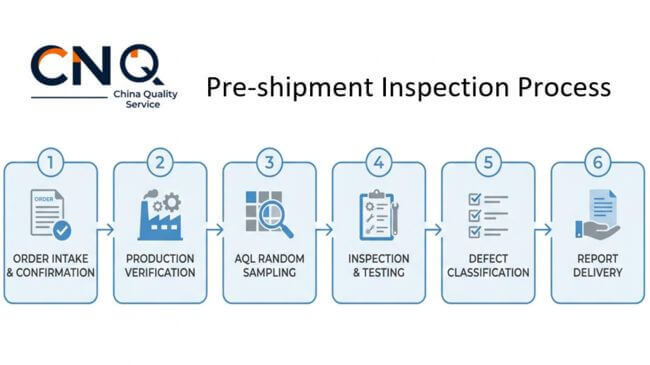
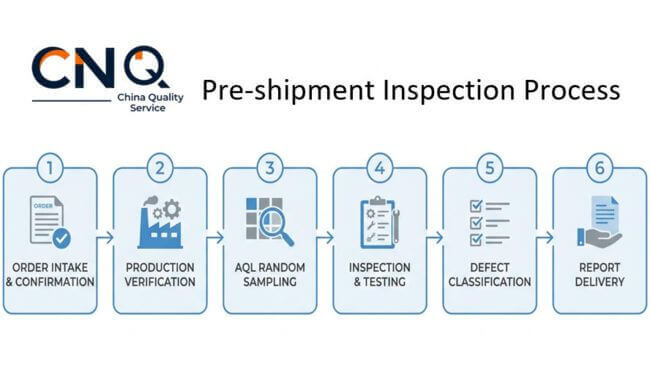
revise transparent to start from

Changed region(s): [[0.0, 0.3918, 1.0, 0.874], [0.0308, 0.1205, 0.2769, 0.3315], [0.3077, 0.211, 0.9538, 0.3014]]

diff --git a/about.html b/about.html
@@ -145,7 +145,7 @@
                 <div class="figure-caption" data-zh="2009年7月11日，东莞某电子厂食堂。两位资深工程师的一次偶遇，诞生了厦门亚商（CNQ）。">July 11, 2009. A chance lunch - 2 engineers formed CNQ</div>
               </div>
             </div>
-            <p><span data-zh="自成立以来，厦门亚商技术检验检测有限公司始终秉持独立、客观和毫不妥协的专业精神这一核心原则。我们作为客户在工厂现场的眼睛，致力于降低供应链风险，确保每一批货物严格符合国际标准。">Since our founding, CNQ has upheld the core principles of independence, objectivity, and uncompromising professionalism to be a boots-on-the-ground third-party inspection company. We serve as our clients' factory floor partner— with inspection networks across all major manufacturing hubs in China and Asia, mitigating supply chain risks and ensuring every shipment complies with global standards.</span></p>
+            <p><span data-zh="自成立以来，厦门亚商技术检验检测有限公司始终秉持独立、客观和毫不妥协的专业精神这一核心原则。我们作为客户在工厂现场的眼睛，致力于降低供应链风险，确保每一批货物严格符合国际标准。">Since our founding, CNQ has upheld the core principles of independence, objectivity, and uncompromising professionalism to be a boots-on-the-ground third-party inspection company. We serve as our clients' hands-on quality control partner— with inspection networks across all major manufacturing hubs in China and Asia, mitigating supply chain risks and ensuring every shipment complies with global standards.</span></p>
           <p data-zh="我们在中国各地直接开展产品检验工作，依托扎实的一线工厂实操经验提供支撑。我们的检验绝非走流程、走过场，而是核查产品结构与功能是否符合规范，深挖生产背后的工艺逻辑，因此能够发现普通检验人员容易遗漏的各类问题。">We conduct product inspections directly throughout China, backed by deep, on-the-ground manufacturing knowledge. We don’t just check boxes; we verify structural and functional compliance to understand the “how” behind the production, allowing us to spot issues standard inspectors miss.</p>
             <p data-zh="我们服务的行业涵盖电子电器、纺织服装、家居用品、玩具礼品、机械设备、食品接触材料等多个领域，客户遍及欧洲、北美、中东、东南亚等50多个国家和地区。">Our services cover electronics, textiles, home products, toys &amp; gifts, machinery, food contact materials and more, with clients across 50+ countries and regions including Europe, North America, Middle East and Southeast Asia.</p>
             <p data-zh="我们坚信透明化是最优的品控手段。依托 17 年实地检验专业经验，我们不仅提供落地实操的质量管控服务，还会整理并分享真实生产中出现的各类缺陷案例分析，帮您规避各类潜在风险。">We believe transparency is the best quality control tool. Beyond delivering hands-on quality control backed by 17 years of on-site expertise, we also collect and share insights from real-world manufacturing defects to help you mitigate potential pitfalls.</p>
@@ -177,9 +177,9 @@
           <section id="mission">
             <h2 data-zh="使命与愿景">Mission &amp; Vision</h2>
             <h3 data-zh="我们的使命">Our Mission</h3>
-            <p><span data-zh="通过专业、独立的品质控制服务，帮助客户降低供应链风险，确保产品品质，提升品牌价值。我们以客户需求为导向，提供高效、可靠、具有成本效益的解决方案。">Through our </span><a href="/services#inspection">product inspection service</a><span> in China, we help international buyers reduce supply chain risks with independent supplier quality assurance, ensure product quality, and enhance brand value — from your first product sourcing inquiry in China to the final export shipment. We deliver efficient, reliable, and cost-effective QC solutions tailored to your needs.</span></p>
+            <p><span data-zh="通过专业、独立的品质控制服务，帮助客户降低供应链风险，确保产品品质，提升品牌价值。我们以客户需求为导向，提供高效、可靠、具有成本效益的解决方案。">Through our </span><a href="/services#inspection">product inspection service</a><span> in China, we help global buyers reduce supply chain risks with independent supplier quality assurance, ensure product quality, and enhance brand value — from your first product sourcing inquiry in China to the final export shipment. We deliver efficient, reliable, and cost-effective QC solutions tailored to your needs.</span></p>
             <h3 data-zh="我们的愿景">Our Vision</h3>
-            <p data-zh="成为全球客户最信赖的品质控制合作伙伴，引领行业标准，推动供应链质量管理水平的持续提升。">To become the most trusted quality control partner for global clients, leading industry standards and driving continuous improvement in supply chain quality management.</p>
+            <p data-zh="成为全球客户最信赖的品质控制合作伙伴，引领行业标准，推动供应链质量管理水平的持续提升。">To become the most trusted factory-floor thrid-party inspection company in China, leading industry standards and driving continuous improvement in supply chain quality management.</p>
             <h3 data-zh="核心价值观">Core Values</h3>
             <ul class="about-list">
               <li data-zh="专业 — 持续提升技术能力，保持行业领先的专业水准">Professional — Continuously improve technical capabilities, maintain industry-leading expertise</li>
